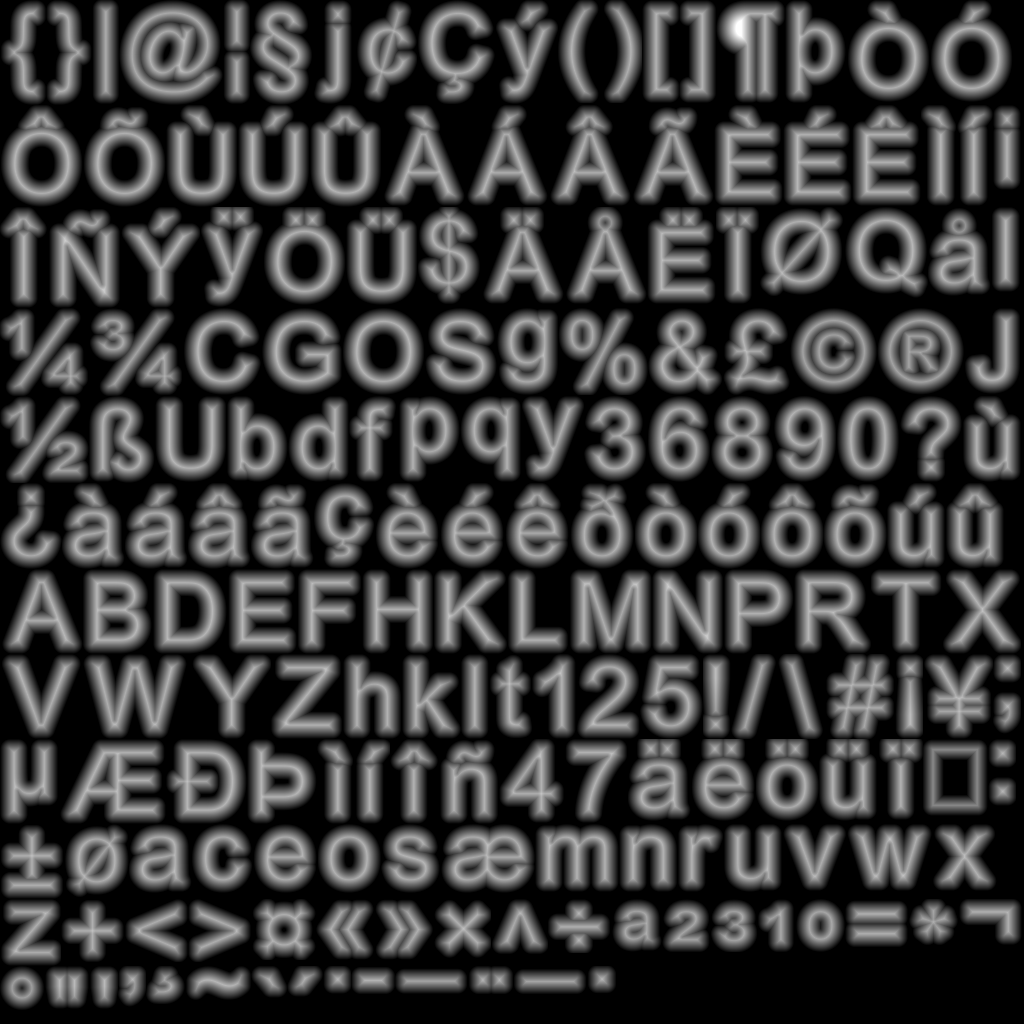
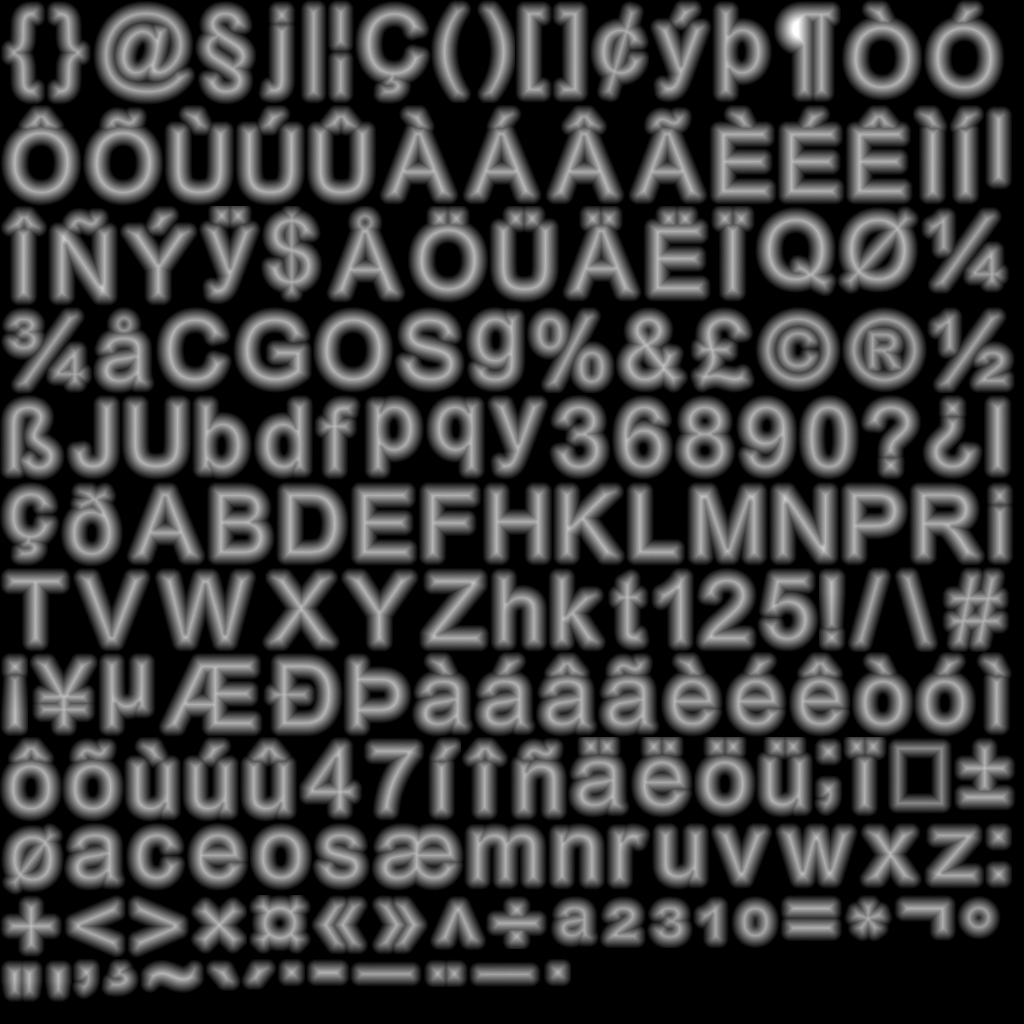
Font styles, weight and new distance fields

diff --git a/Engine/RenderCore/OpenGL/UI/Text.cpp b/Engine/RenderCore/OpenGL/UI/Text.cpp
@@ -212,6 +212,7 @@ uniform sampler2D depthMap;
 uniform float depthValue;
 uniform ivec2 topLeft;
 uniform int fontsize;
+uniform int weight;
 layout (binding=0, rgba16f) uniform image2D colorDest;
 layout (binding=4, r8) readonly uniform image2D fontAtlas;
 layout (binding=5, r8i) readonly uniform iimage2D kerning;
@@ -231,8 +232,8 @@ layout(std430, binding = 3) readonly buffer CharBuffer {
 
 shared float scale;
 
-const float width = 0.3;
-const float fade = 0.2;
+shared float width;
+const float fade = 0.1;
 
 #define TILE_SIZE 64
 layout(local_size_x = TILE_SIZE, local_size_y = 1, local_size_z = 1) in;
@@ -242,6 +243,7 @@ void main()
 	
 	if (gl_LocalInvocationIndex == 0) {
 		scale = fontsize / 90.0;
+		width = 0.3 - (weight / 100.0 - 1.0) * 0.1;
 	}
 
 	uint threadCount = TILE_SIZE;
@@ -278,8 +280,6 @@ void main()
 	if (solid_shader != nullptr) delete solid_shader;
 	solid_shader = new Shader(0, solidShader);
 
-	SetStyle(UIStyle(Vector(1.f, 0.f, 0.f)));
-
 	hits = HitReg::HitTestVisible;
 
 	font = "Assets/Fonts/arial";
@@ -288,9 +288,9 @@ void main()
 	if (it == fonts.end()) fonts[font] = loadFont(font);
 
 	fontSize = 30;
+	weight = 100;
 
 	SetText("Hello World");
-	Console::Log("Text first");
 }
 
 Text::~Text()
@@ -311,6 +311,7 @@ void Text::Render()
 	solid_shader->SetUniform("fontsize", fontSize);
 	solid_shader->SetUniform("model", matrix->model_m);
 	solid_shader->SetUniform("depthValue", realDepth);
+	solid_shader->SetUniform("weight", weight);
 
 	glActiveTexture(GL_TEXTURE0);
 	glBindTexture(GL_TEXTURE_2D, RI->GetUIManager()->GetDepth());

diff --git a/Game/TestUI.cpp b/Game/TestUI.cpp
@@ -9,7 +9,7 @@ void TestUI::Construct()
 		Create<Panel>()->AddChild(
 			Create<Image>()->SetStyle(UIStyle(Vector(1.f, 0.f, 0.f), 1.0f, RI->LoadTextureByName("Assets/Textures/trees2/Leaves_d.png")))
 		)->AddChild(
-			Create<Text>()->SetStyle(UIStyle(Vector(1.f, 1.f, 1.f), 1.0f, nullptr))
+			Create<Text>()->SetStyle(UIStyle(Vector(1.f, 0.f, 0.f), 1.0f, nullptr))
 		)
 	);
 }

diff --git a/Engine/RenderCore/OpenGL/UI/Image.cpp b/Engine/RenderCore/OpenGL/UI/Image.cpp
@@ -64,8 +64,6 @@ void main()
 }
 )~~~";
 
-	Console::Log("Been here");
-
 	solid_shader = new Shader(vertexShader, solidShader);
 	texture_shader = new Shader(vertexShader, textureShader);
 

diff --git a/Engine/RenderCore/OpenGL/include/UI/Text.h b/Engine/RenderCore/OpenGL/include/UI/Text.h
@@ -15,5 +15,6 @@ protected:
 	uint StringBuffer;
 	String value;
 	int fontSize;
+	int weight;
 };
 
